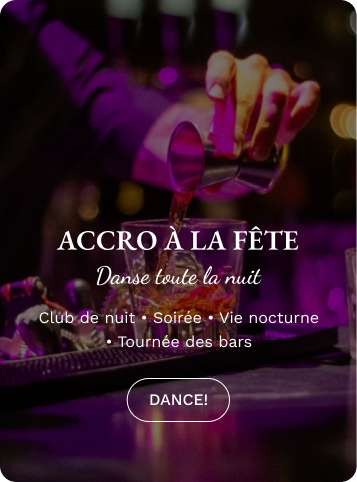
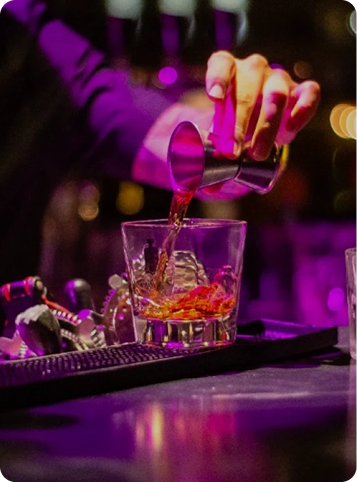
almost finished work, explore section not 100% eq to figma, same for restaurant

diff --git a/src/pages/Accueil.jsx b/src/pages/Accueil.jsx
@@ -147,21 +147,21 @@ function Acceuil() {
             subtitle: "Chanter ensemble",
             desc: "Musique live · Concert · Karaoké\nSpectacle de talents",
             button: "SING!",
-            image: "/locales/assets/.png"
+            image: "/locales/assets/chanter.png"
         },
         {
             title: "ACCRO A LA FÊTE",
             subtitle: "Danse toute la nuit",
             desc: "Club de nuit · Soirée · Vie nocturne\nTournée des bars",
             button: "DANCE!",
-            image: "/locales/assets/.png"
+            image: "/locales/assets/acro.png"
         },
         {
             title: "GAME ZONE",
             subtitle: "Prêt à gagner ?",
             desc: "Soirée Quiz · Team Building\nJeux de société",
             button: "PLAY!",
-            image: "/locales/assets/.png"
+            image: "/locales/assets/games.png"
         }
     ];
     //explore slider
@@ -169,25 +169,29 @@ function Acceuil() {
         {
             number: "01",
             title: "Évasion en Yacht",
-            desc: "Découvrez Saïdia, la perle de la Méditerranée...",
+            desc: "...",
+            image: "/locales/assets/yacht.png",
             video: "/locales/assets/yacht.mp4"
         },
         {
             number: "02",
             title: "Plages Dorées",
-            desc: "14 km de sable fin et d'eaux turquoise...",
+            desc: "...",
+            image: "/locales/assets/1stvideoph.png",
             video: "/locales/assets/beach.mp4"
         },
         {
             number: "03",
             title: "Nature & Forêts",
-            desc: "Explorez les forêts verdoyantes...",
+            desc: "...",
+            image: "/locales/assets/forest.png",
             video: "/locales/assets/forest.mp4"
         },
         {
             number: "04",
             title: "Marina & Loisirs",
-            desc: "Promenez-vous le long de la marina...",
+            desc: "...",
+            image: "/locales/assets/marina.png",
             video: "/locales/assets/marina.mp4"
         }
     ];
@@ -198,6 +202,8 @@ function Acceuil() {
     const current = exploreItems[exploreIndex];
     const next = exploreItems[(exploreIndex + 1) % exploreItems.length];
 
+
+    console.log("index:", exploreIndex)
     return (
         <>
             {/* Hero Slider */}
@@ -469,8 +475,8 @@ function Acceuil() {
                             </div>
                         </div>
 
-                        {/* RIGHT SIDE - STACKED IMAGES FROM DATA */}
-                        <div className="lg:w-[55%] relative h-[380px] sm:h-[450px] md:h-[500px]">
+                        {/* RIGHT SIDE - STACKED IMAGES - Responsive */}
+                        <div className="w-full lg:w-[55%] relative h-[280px] sm:h-[350px] md:h-[420px] lg:h-[450px] order-1 lg:order-2 mb-8 lg:mb-0">
                             {restaurantData.map((restaurant, index) => {
                                 const offset = index - currentRestaurantIndex;
                                 const isVisible = offset >= 0 && offset < 3;
@@ -482,46 +488,46 @@ function Acceuil() {
                                         key={restaurant.id}
                                         onClick={() => setCurrentRestaurantIndex(index)}
                                         className={`
-                                            absolute left-0 right-0 transition-all duration-500 ease-out cursor-pointer
-                                            ${index === currentRestaurantIndex
+                                absolute left-0 right-0 transition-all duration-500 ease-out cursor-pointer
+                                ${index === currentRestaurantIndex
                                                 ? "top-0 scale-100 z-30 opacity-100"
                                                 : index === currentRestaurantIndex + 1
-                                                    ? "top-6 scale-95 z-20 opacity-80"
-                                                    : "top-12 scale-90 z-10 opacity-60"
+                                                    ? "top-4 sm:top-6 scale-[0.97] sm:scale-95 z-20 opacity-80"
+                                                    : "top-8 sm:top-12 scale-[0.94] sm:scale-90 z-10 opacity-60"
                                             }
-                                        `}
+                            `}
                                     >
-                                        <div className="rounded-xl shadow-2xl overflow-hidden border border-gray-100 mx-auto max-w-[90%] sm:max-w-full">
+                                        <div className="rounded-lg sm:rounded-xl overflow-hidden border border-gray-100 mx-auto w-[95%] sm:w-full max-w-[400px] sm:max-w-none">
                                             <img
                                                 src={restaurant.image}
                                                 alt={restaurant.title}
-                                                className="w-full h-[300px] sm:h-[350px] md:h-[400px] object-cover"
+                                                className="w-full h-[200px] sm:h-[280px] md:h-[350px] lg:h-[400px] object-cover"
                                             />
                                         </div>
                                     </div>
                                 );
                             })}
 
-                            {/* Navigation */}
-                            <div className="absolute -bottom-12 left-0 right-0 flex justify-center items-center gap-4">
+                            {/* Navigation - Responsive */}
+                            <div className="absolute -bottom-10 sm:-bottom-12 left-0 right-0 flex justify-center items-center gap-3 sm:gap-4">
                                 <button
                                     onClick={prevRestaurant}
-                                    className="w-10 h-10 rounded-full border border-gray-300 flex items-center justify-center text-gray-600 hover:border-[#1a3c5e] hover:text-[#1a3c5e] transition-colors bg-white"
+                                    className="w-8 h-8 sm:w-10 sm:h-10 rounded-full border border-gray-300 flex items-center justify-center text-gray-600 hover:border-[#1a3c5e] hover:text-[#1a3c5e] transition-colors bg-white"
                                 >
-                                    <svg xmlns="http://www.w3.org/2000/svg" fill="none" viewBox="0 0 24 24" strokeWidth={2} stroke="currentColor" className="w-4 h-4">
+                                    <svg xmlns="http://www.w3.org/2000/svg" fill="none" viewBox="0 0 24 24" strokeWidth={2} stroke="currentColor" className="w-3 h-3 sm:w-4 sm:h-4">
                                         <path strokeLinecap="round" strokeLinejoin="round" d="M15.75 19.5L8.25 12l7.5-7.5" />
                                     </svg>
                                 </button>
 
-                                <div className="w-10 h-10 rounded-full bg-[#1a3c5e] text-white flex items-center justify-center text-xs font-semibold">
+                                <div className="w-8 h-8 sm:w-10 sm:h-10 rounded-full bg-[#1a3c5e] text-white flex items-center justify-center text-[10px] sm:text-xs font-semibold">
                                     {currentRestaurantIndex + 1}/{restaurantData.length}
                                 </div>
 
                                 <button
                                     onClick={nextRestaurant}
-                                    className="w-10 h-10 rounded-full border border-gray-300 flex items-center justify-center text-gray-600 hover:border-[#1a3c5e] hover:text-[#1a3c5e] transition-colors bg-white"
+                                    className="w-8 h-8 sm:w-10 sm:h-10 rounded-full border border-gray-300 flex items-center justify-center text-gray-600 hover:border-[#1a3c5e] hover:text-[#1a3c5e] transition-colors bg-white"
                                 >
-                                    <svg xmlns="http://www.w3.org/2000/svg" fill="none" viewBox="0 0 24 24" strokeWidth={2} stroke="currentColor" className="w-4 h-4">
+                                    <svg xmlns="http://www.w3.org/2000/svg" fill="none" viewBox="0 0 24 24" strokeWidth={2} stroke="currentColor" className="w-3 h-3 sm:w-4 sm:h-4">
                                         <path strokeLinecap="round" strokeLinejoin="round" d="M8.25 4.5l7.5 7.5-7.5 7.5" />
                                     </svg>
                                 </button>
@@ -618,61 +624,72 @@ function Acceuil() {
                         </div>
 
                         {/* Right — Image Slider */}
-                        <div className="lg:w-3/5 relative flex items-center gap-3">
+                        <div className="lg:w-3/5 relative h-[420px] overflow-hidden group">
+                            
+                            {/* Sliding Track */}
+                            <div 
+                                className="flex transition-transform duration-700 ease-in-out h-full"
+                                style={{ transform: `translateX(-${exploreIndex * 100}%)` }}
+                            >
+                                {exploreItems.map((item, idx) => (
+                                    <div key={idx} className="min-w-full h-full px-2 relative">
+                                        <div className="relative w-full h-full rounded-xl overflow-hidden shadow-2xl">
+                                            {idx === 0 ? (
+                                                <video
+                                                    src={item.video}
+                                                    className="w-full h-full object-cover"
+                                                    autoPlay muted loop playsInline
+                                                    poster={item.image}
+                                                />
+                                            ) : (
+                                                <img 
+                                                    src={item.image} 
+                                                    alt={item.title}
+                                                    className="w-full h-full object-cover"
+                                                />
+                                            )}
+                                            {/* Gradient Overlay for better text visibility */}
+                                            <div className="absolute inset-0 bg-gradient-to-t from-black/40 to-transparent"></div>
+                                            
+                                            <span className="absolute bottom-6 left-6 text-7xl font-black text-white/20 leading-none select-none">
+                                                {item.number}
+                                            </span>
 
-                            {/* Prev image (peek left) */}
-                            <div className="relative w-[20%] shrink-0 rounded-lg overflow-hidden shadow-md opacity-50 cursor-pointer" onClick={prevExplore}>
-                                <video
-                                    src={exploreItems[(exploreIndex - 1 + exploreItems.length) % exploreItems.length].video}
-                                    className="w-full h-[280px] object-cover"
-                                    muted
-                                    loop
-                                    autoPlay
-                                    poster="/locales/assets/.png"
-                                />
-                                {/* Prev arrow */}
-                                <button onClick={prevExplore}
-                                    className="absolute left-1/2 top-1/2 -translate-x-1/2 -translate-y-1/2 w-9 h-9 rounded-full bg-white/60 hover:bg-white flex items-center justify-center text-[#1a3c5e] shadow transition-colors">
-                                    ←
-                                </button>
+                                            {/* Play button indicator - only show for video */}
+                                            {idx === 0 && (
+                                                <div className="absolute top-1/2 left-1/2 -translate-x-1/2 -translate-y-1/2 w-16 h-16 rounded-full bg-white/20 backdrop-blur-md border-2 border-white/50 flex items-center justify-center hover:bg-white/40 transition-all duration-300">
+                                                    <span className="text-white text-2xl ml-1">▶</span>
+                                                </div>
+                                            )}
+                                        </div>
+                                    </div>
+                                ))}
                             </div>
 
-                            {/* Main image */}
-                            <div className="relative w-[60%] shrink-0 rounded-lg overflow-hidden shadow-2xl z-10">
-                                <video
-                                    src={current.video}
-                                    className="w-full h-[420px] object-cover"
-                                    autoPlay
-                                    muted
-                                    loop
-                                    playsInline
-                                    poster="/locales/assets/yacht.png"
-                                />
-                                <span className="absolute bottom-4 left-4 text-6xl font-black text-white/20 leading-none select-none">
-                                    {current.number}
-                                </span>
-                                <button className="absolute top-1/2 left-1/2 -translate-x-1/2 -translate-y-1/2 w-14 h-14 rounded-full bg-white/30 backdrop-blur-sm border-2 border-white flex items-center justify-center hover:bg-white/50 transition-colors">
-                                    <span className="text-white text-xl ml-1">▶</span>
-                                </button>
-                            </div>
+                            {/* Navigation Arrows */}
+                            <button 
+                                onClick={prevExplore}
+                                className="absolute left-4 top-1/2 -translate-y-1/2 w-12 h-12 rounded-full bg-white/10 backdrop-blur-md border border-white/30 text-white flex items-center justify-center hover:bg-white/30 transition-all duration-300 z-30 opacity-0 group-hover:opacity-100"
+                            >
+                                <svg xmlns="http://www.w3.org/2000/svg" fill="none" viewBox="0 0 24 24" strokeWidth={2.5} stroke="currentColor" className="w-6 h-6">
+                                    <path strokeLinecap="round" strokeLinejoin="round" d="M15.75 19.5L8.25 12l7.5-7.5" />
+                                </svg>
+                            </button>
+                            <button 
+                                onClick={nextExplore}
+                                className="absolute right-4 top-1/2 -translate-y-1/2 w-12 h-12 rounded-full bg-white/10 backdrop-blur-md border border-white/30 text-white flex items-center justify-center hover:bg-white/30 transition-all duration-300 z-30 opacity-0 group-hover:opacity-100"
+                            >
+                                <svg xmlns="http://www.w3.org/2000/svg" fill="none" viewBox="0 0 24 24" strokeWidth={2.5} stroke="currentColor" className="w-6 h-6">
+                                    <path strokeLinecap="round" strokeLinejoin="round" d="M8.25 4.5l7.5 7.5-7.5 7.5" />
+                                </svg>
+                            </button>
 
-                            {/* Next image (peek right) */}
-                            <div className="relative w-[20%] shrink-0 rounded-lg overflow-hidden shadow-md opacity-50 cursor-pointer" onClick={nextExplore}>
-                                <video
-                                    src={exploreItems[(exploreIndex + 1) % exploreItems.length].video}
-                                    className="w-full h-[280px] object-cover"
-                                    muted
-                                    loop
-                                    autoPlay
-                                    poster="/locales/assets/.png"
-                                />
-                                {/* Next arrow */}
-                                <button onClick={nextExplore}
-                                    className="absolute left-1/2 top-1/2 -translate-x-1/2 -translate-y-1/2 w-9 h-9 rounded-full bg-white/60 hover:bg-white flex items-center justify-center text-[#1a3c5e] shadow transition-colors">
-                                    →
-                                </button>
+                            {/* Info bar / progress */}
+                            <div className="absolute top-6 left-6 right-6 flex justify-between items-center z-30">
+                                <div className="text-white font-bold tracking-widest text-xs bg-black/30 backdrop-blur-sm px-3 py-1.5 rounded-full border border-white/10">
+                                    {exploreItems[exploreIndex].number} / 0{exploreItems.length}
+                                </div>
                             </div>
-
                         </div>
                     </div>
 

diff --git a/src/layouts/Footer.jsx b/src/layouts/Footer.jsx
@@ -18,17 +18,17 @@ function Footer() {
                 {/* Payment methods — replace src with your real images */}
                 <div className="flex flex-wrap justify-center gap-3">
                     {[
-                        { name: 'Visa', src: '/locales/assets/payments/visa.png' },
-                        { name: 'Diners', src: '/locales/assets/payments/diners.png' },
-                        { name: 'Mastercard', src: '/locales/assets/payments/mastercard.png' },
-                        { name: 'Stripe', src: '/locales/assets/payments/stripe.png' },
-                        { name: 'PayPal', src: '/locales/assets/payments/paypal.png' },
-                        { name: 'Google Pay', src: '/locales/assets/payments/google pay.png' },
-                        { name: 'Apple Pay', src: '/locales/assets/payments/apple pay.png' },
+                        { name: 'Visa', src: '/locales/assets/visa.png' },
+                        { name: 'Diners', src: '/locales/assets/diners.png' },
+                        { name: 'Mastercard', src: '/locales/assets/mastercard.png' },
+                        { name: 'Stripe', src: '/locales/assets/stripe.png' },
+                        { name: 'PayPal', src: '/locales/assets/paypal.png' },
+                        { name: 'Google Pay', src: '/locales/assets/google pay.png' },
+                        { name: 'Apple Pay', src: '/locales/assets/apple pay.png' },
                     ].map((p) => (
                         <div key={p.name} className="bg-white rounded px-3 py-2 flex items-center justify-center h-10 w-16">
                             {/* Replace with <img src={p.src} alt={p.name} className="h-5 object-contain" /> once you have the images */}
-                            <span className="text-[#1a1a1a] text-[10px] font-bold">{p.name}</span>
+                            <img src={p.src} alt={p.name} className="h-5 object-contain cursor-pointer" />
                         </div>
                     ))}
                 </div>
@@ -85,15 +85,15 @@ function Footer() {
                     {/* Social media — replace with your images */}
                     <div className="flex gap-3">
                         {[
-                            { name: 'fb', src: '/locales/assets/social/facebook.png' },
-                            { name: 'tk', src: '/locales/assets/social/tiktok.png' },
-                            { name: 'ig', src: '/locales/assets/social/insta.png' },
-                            { name: 'yt', src: '/locales/assets/social/youtube.png' },
+                            { name: 'fb', src: '/locales/assets/facebook.png' },
+                            { name: 'tk', src: '/locales/assets/tiktok.png' },
+                            { name: 'ig', src: '/locales/assets/insta.png' },
+                            { name: 'yt', src: '/locales/assets/youtube.png' },
                         ].map((s) => (
                             <a key={s.name} href="#"
                                 className="w-9 h-9 rounded-full bg-white/10 hover:bg-[#c9a84c] flex items-center justify-center transition-colors">
                                 {/* Replace with <img src={s.src} alt={s.name} className="w-4 h-4 object-contain" /> */}
-                                <span className="text-white text-[10px] font-bold">{s.name}</span>
+                                <img src={s.src} alt={s.name} className="w-4 h-4 object-contain" />
                             </a>
                         ))}
                     </div>

diff --git a/src/constants/accueilData.jsx b/src/constants/accueilData.jsx
@@ -129,28 +129,8 @@ export const ACTIVITIES_DATA = [
 ];
 
 export const EXPLORE_DATA = [
-    {
-        number: "01",
-        title: "Évasion en Yacht",
-        desc: "Découvrez Saïdia, la perle de la Méditerranée...",
-        video: "/locales/assets/video.mp4"
-    },
-    {
-        number: "02",
-        title: "Plages Dorées",
-        desc: "14 km de sable fin et d'eaux turquoise...",
-        video: "/locales/assets/video.mp4"
-    },
-    {
-        number: "03",
-        title: "Nature & Forêts",
-        desc: "Explorez les forêts verdoyantes...",
-        video: "/locales/assets/video.mp4"
-    },
-    {
-        number: "04",
-        title: "Marina & Loisirs",
-        desc: "Promenez-vous le long de la marina...",
-        video: "/locales/assets/video.mp4"
-    }
+    { number: "01", title: "Évasion en Yacht", desc: "...", video: "/locales/assets/yacht.mp4", image: "/locales/assets/yacht.png" },
+    { number: "02", title: "Plages Dorées", desc: "...", video: "/locales/assets/beach.mp4", image: "/locales/assets/beach.png" },
+    { number: "03", title: "Nature & Forêts", desc: "...", video: "/locales/assets/forest.mp4", image: "/locales/assets/forest.png" },
+    { number: "04", title: "Marina & Loisirs", desc: "...", video: "/locales/assets/marina.mp4", image: "/locales/assets/marina.png" },
 ];

diff --git a/src/store/store.js b/src/store/store.js
@@ -1,8 +1,11 @@
 import { configureStore } from '@reduxjs/toolkit'
 
- const store = configureStore({
+const dummyReducer = (state = {}) => state;
+
+const store = configureStore({
     reducer: {
-        
+        app: dummyReducer
     },
 })
+
 export default store;
